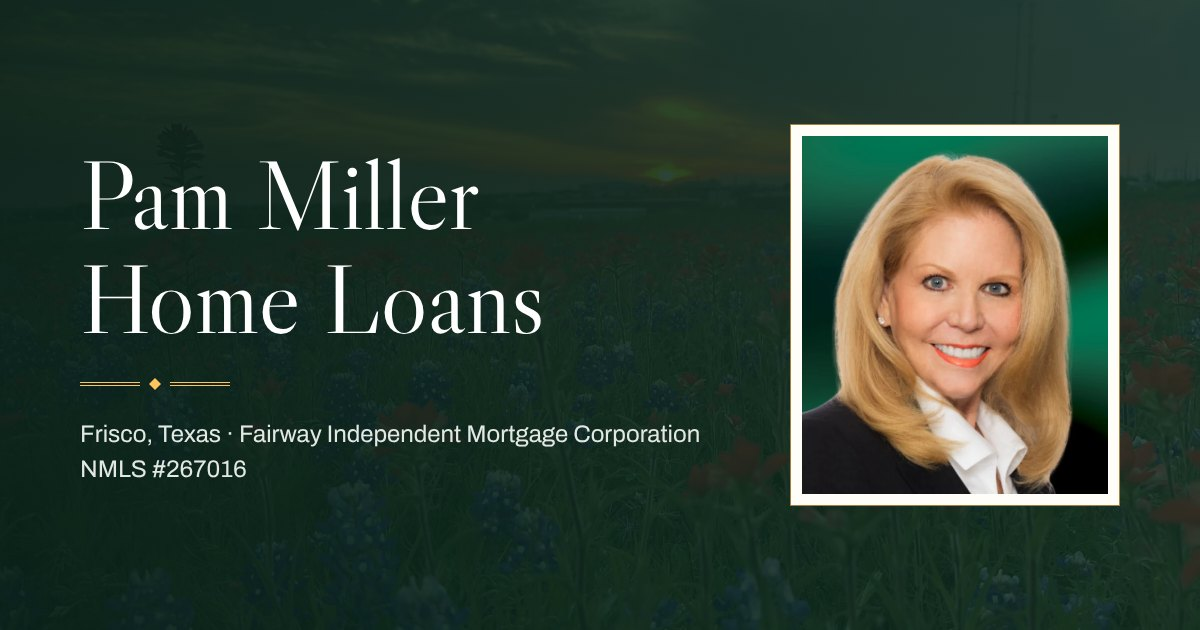
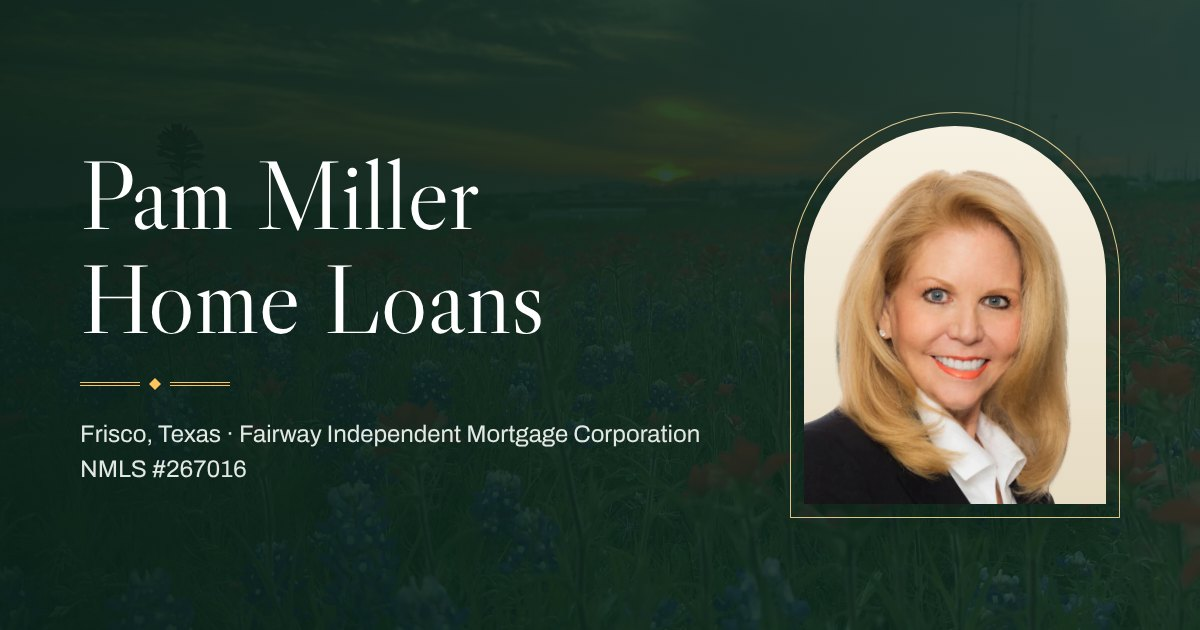
Cut out Pam's portrait onto a neutral arch and center it in the hero
Claude-Session: https://claude.ai/code/session_01F7BfFY9GzRtZpefXpYczpX

Changed region(s): [[0.6475, 0.181, 0.9558, 0.8444]]

diff --git a/assets/css/site.css b/assets/css/site.css
@@ -108,8 +108,8 @@ h4 { font-family: var(--sans); font-weight: 600; font-size: .9rem; text-transfor
 .hero { position: relative; background: var(--pine-deep); color: #fff; isolation: isolate; }
 .hero-bg { position: absolute; inset: 0; width: 100%; height: 100%; object-fit: cover; object-position: center 62%; z-index: -2; }
 .hero::before { content: ""; position: absolute; inset: 0; z-index: -1; background: linear-gradient(90deg, rgba(10, 34, 26, .94) 0%, rgba(12, 42, 32, .84) 42%, rgba(16, 54, 42, .38) 100%), linear-gradient(0deg, rgba(10, 34, 26, .55), rgba(10, 34, 26, 0) 45%); }
-.hero .wrap { display: grid; grid-template-columns: minmax(0, 7fr) minmax(0, 4fr); gap: clamp(28px, 5vw, 76px); align-items: center; padding-top: clamp(52px, 7vw, 96px); }
-.hero-copy { padding-bottom: clamp(52px, 7vw, 96px); }
+.hero .wrap { display: grid; grid-template-columns: minmax(0, 7fr) minmax(0, 4fr); gap: clamp(28px, 5vw, 76px); align-items: center; }
+.hero-copy { padding: clamp(52px, 7vw, 96px) 0; }
 
 .hero h1 { color: #fff; margin-bottom: .45em; text-shadow: 0 1px 18px rgba(0, 0, 0, .25); }
 .hero h1::after { content: ""; display: block; width: 150px; height: 14px; margin-top: .5em; background: var(--diamond) no-repeat left center; filter: brightness(1.55) saturate(.8); }
@@ -118,9 +118,11 @@ h4 { font-family: var(--sans); font-weight: 600; font-size: .9rem; text-transfor
 .hero .btn:hover { background: #fff; border-color: #fff; box-shadow: inset 0 0 0 3px #fff, inset 0 0 0 4px rgba(16, 54, 42, .45); }
 .hero .btn--ghost { background: rgba(10, 34, 26, .35); border-color: rgba(255, 255, 255, .7); color: #fff; box-shadow: none; }
 .hero .btn--ghost:hover { background: #fff; color: var(--pine-deep); box-shadow: none; }
-.hero-photo { margin: 0; position: relative; align-self: end; padding: 16px 16px 0; }
-.hero-photo::before { content: ""; position: absolute; inset: 0 0 0 0; border: 1px solid var(--brass-light); border-bottom: 0; border-radius: 999px 999px 0 0; pointer-events: none; }
-.hero-photo img { width: 100%; aspect-ratio: 4 / 5; object-fit: cover; object-position: center 20%; border-radius: 999px 999px 0 0; box-shadow: 0 0 0 4px rgba(255, 253, 248, .92); }
+.hero-photo { margin: 0; position: relative; padding: 14px; }
+.hero-photo::before { content: ""; position: absolute; inset: 0; border: 1px solid var(--brass-light); border-radius: 999px 999px 3px 3px; pointer-events: none; }
+.hero-photo img { width: 100%; aspect-ratio: 4 / 5; object-fit: cover; object-position: center 20%; border-radius: 999px 999px 0 0; }
+.hero-photo--arch { margin: clamp(40px, 5vw, 64px) 0; }
+.hero-photo--arch img { aspect-ratio: 3 / 3.75; object-fit: contain; object-position: center bottom; background: linear-gradient(180deg, #f7f1e3 0%, #e6dbc3 100%); box-shadow: 0 18px 40px rgba(6, 22, 16, .35); }
 .hero-photo--page { max-width: 340px; padding: 14px; }
 .hero-photo--page::before { border: 1px solid var(--brass); border-radius: 999px 999px 2px 2px; }
 .hero-photo--page img { border-radius: 999px 999px 0 0; box-shadow: none; }
@@ -136,7 +138,7 @@ h4 { font-family: var(--sans); font-weight: 600; font-size: .9rem; text-transfor
 @media (max-width: 900px) {
   .hero .wrap { grid-template-columns: 1fr; }
   .hero-copy { padding-bottom: 0; }
-  .hero-photo { max-width: 300px; margin: 8px auto 0; }
+  .hero-photo--arch { max-width: 290px; margin: 28px auto 44px; }
   .hero::before { background: linear-gradient(0deg, rgba(10, 34, 26, .9), rgba(12, 42, 32, .82)); }
   .ledger { grid-template-columns: 1fr 1fr; padding: 14px 0 6px; }
   .ledger li { border-bottom: 1px solid var(--rule); padding: 14px 14px; }
